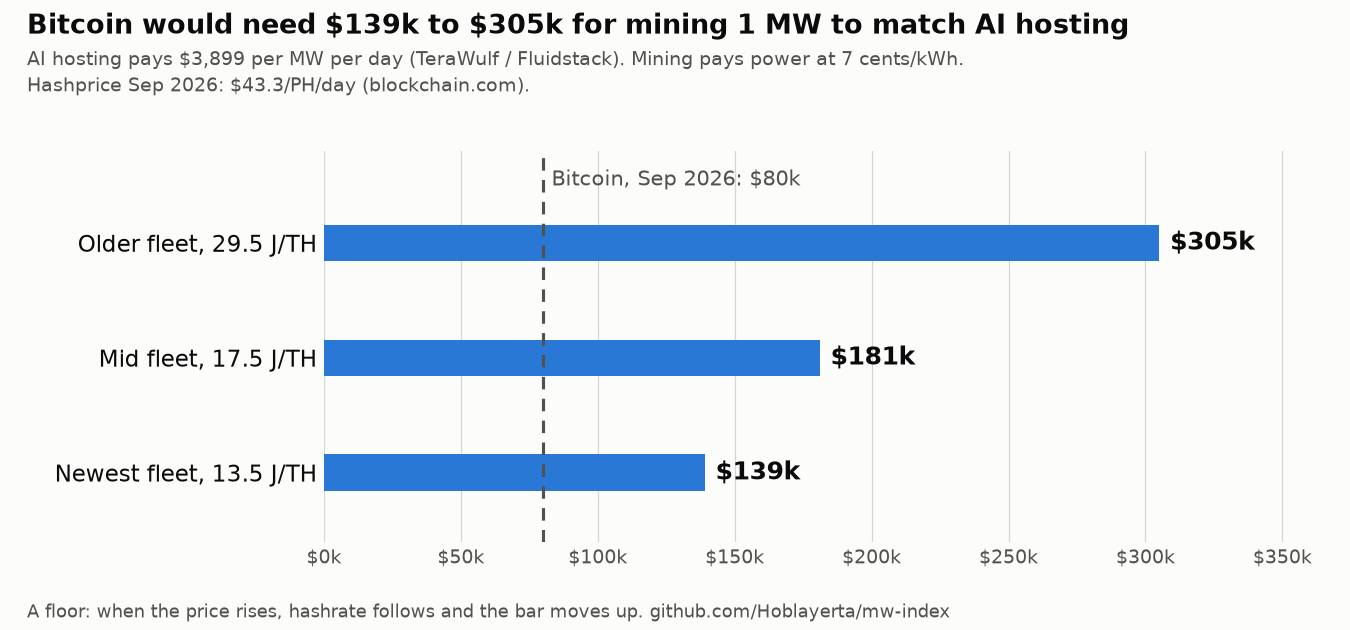
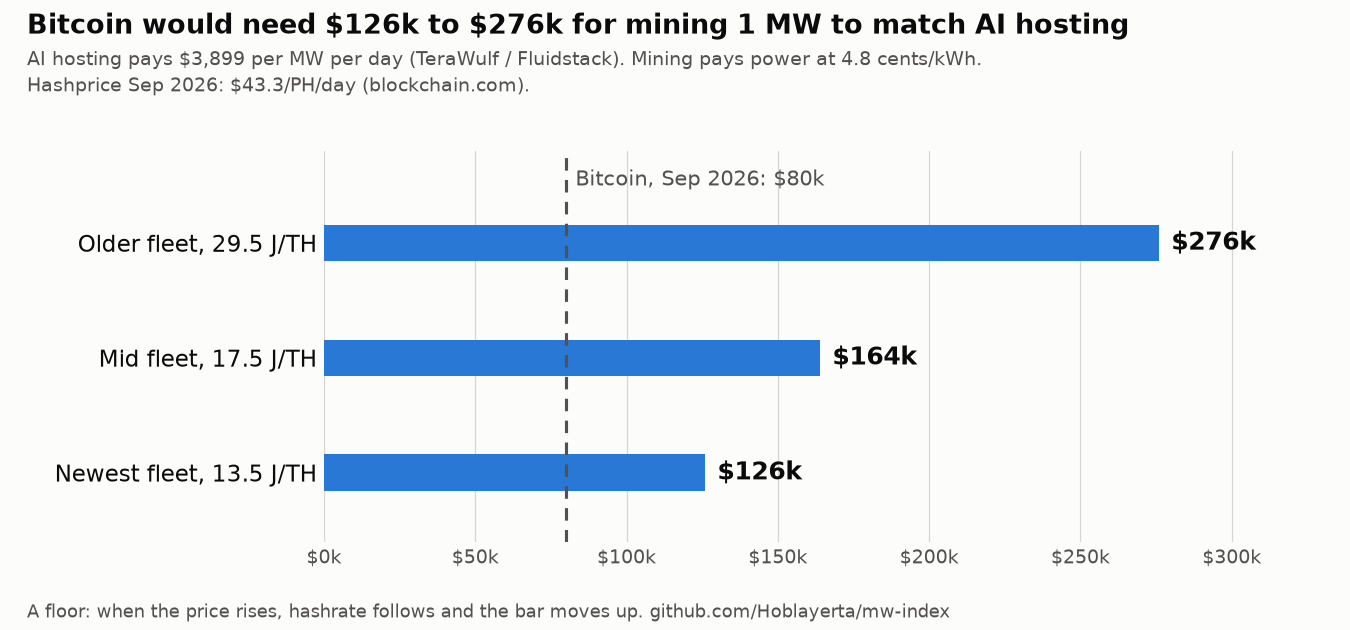
README: lead with the thesis and this sprint's finding, offer a free site study, show the study, block space section, one power price throughout
- Thesis: mined bitcoin as past energy, inference tokens as future energy, with sources
- Sprint finding first: leased vs unleased MW and who pays for the build
- Breakeven chart now at 4.8 cents, the model's power price (was 7)
- Owned-GPU payback marked as before depreciation, staff and financing
- Example one-page study shown inline; last-updated date and not-advice note

diff --git a/rentabilidad-diaria-ml/empate_btc.py b/rentabilidad-diaria-ml/empate_btc.py
@@ -8,7 +8,7 @@ needed BTC = BTC today x needed hashprice / hashprice today. That is a floor:
 when the price rises, hashrate follows and the bar moves up.
 
 "Today" is the last full month of mw_bitcoin_diario.csv. Hosting comes from
-../out/tabla_mw.csv (TeraWulf / Fluidstack rate). Power at 7 cents, as in the dataset.
+../out/tabla_mw.csv (TeraWulf / Fluidstack rate). Power at 4.8 cents, the model's default (Luxor); the daily dataset itself uses 7.
 
 Writes out/empate_btc.png and out/empate_btc.csv.
 """
@@ -20,7 +20,7 @@ import pandas as pd
 AQUI = Path(__file__).resolve().parent
 plt.rcParams["text.parse_math"] = False  # los "$" son dólares, no fórmulas
 MESES = ["Jan", "Feb", "Mar", "Apr", "May", "Jun", "Jul", "Aug", "Sep", "Oct", "Nov", "Dec"]
-LUZ_USD_KWH = 0.07
+LUZ_USD_KWH = 0.048  # la misma luz del modelo (Luxor, jul 2026); el dataset diario usa 0.07
 FLOTAS = [("Older fleet, 29.5 J/TH", 29.5), ("Mid fleet, 17.5 J/TH", 17.5), ("Newest fleet, 13.5 J/TH", 13.5)]
 
 # colores: un solo tono (slot 1 de la paleta de referencia), tinta y superficie claras
@@ -68,7 +68,7 @@ def main():
     lo, hi = full.btc_necesario_usd.min() / 1000, full.btc_necesario_usd.max() / 1000
     fig.suptitle(f"Bitcoin would need ${lo:,.0f}k to ${hi:,.0f}k for mining 1 MW to match AI hosting",
                  x=0.02, ha="left", fontsize=13, fontweight="bold", color=TINTA)
-    fig.text(0.02, 0.855, f"AI hosting pays ${hosting:,.0f} per MW per day (TeraWulf / Fluidstack). Mining pays power at {LUZ_USD_KWH*100:.0f} cents/kWh.\n"
+    fig.text(0.02, 0.855, f"AI hosting pays ${hosting:,.0f} per MW per day (TeraWulf / Fluidstack). Mining pays power at {LUZ_USD_KWH*100:.1f} cents/kWh.\n"
              f"Hashprice {mes_txt}: ${hp:.1f}/PH/day (blockchain.com).", fontsize=9, color=TINTA_2, linespacing=1.4)
     fig.text(0.02, 0.02, "A floor: when the price rises, hashrate follows and the bar moves up. github.com/Hoblayerta/mw-index",
              fontsize=8.5, color=TINTA_2)

diff --git a/README.md b/README.md
@@ -1,8 +1,40 @@
 # MW index
 
-Open research on the economics of energy and compute: what a megawatt earns mining Bitcoin vs hosting AI, what each path costs to build and run, and what it takes to finance the switch. Updated every week, every number linked to its source.
+Open research on the economics of energy and compute: what a megawatt earns mining Bitcoin vs hosting AI, what each path costs to build and run, and what it takes to finance the switch. Built in public, every number linked to its source.
 
-For bitcoin miners of 5 to 50 MW deciding whether to move power to AI, the people who finance them, and anyone who wants to follow where energy, Bitcoin and AI compute meet.
+*Last updated 9 Nov 2026. Research notes, not investment advice.*
+
+**Run 5 to 50 MW?** Send me your MW and your power price and I'll send back a study of your site, free. [Book 20 minutes](https://calendly.com/hoblayerta) or [open an issue](https://github.com/Hoblayerta/mw-index/issues). I'll ask whether your site can join the public index; if not, your numbers stay with you.
+
+## The thesis
+
+Energy is the good underneath all of this, and a megawatt can now be turned into two very different things.
+
+**Mined bitcoin is past energy.** Each coin is proof that work was spent, and that cost can't be faked. Nick Szabo called this [unforgeable costliness](https://nakamotoinstitute.org/library/shelling-out/) in 2002. **An inference token is future energy**: compute you will consume. Both are priced by joules and physics. Money backed by debt is priced by promises, and I think those keep growing until they break.
+
+Three things are moving at once, and I don't see many people measuring them together:
+
+- **AI gets cheaper to produce every year.** The price to reach the same model performance has fallen 9x to 900x a year depending on the task; at GPT-4's level on PhD-level science questions, 40x a year ([Epoch AI, Mar 2025](https://epoch.ai/data-insights/llm-inference-price-trends)).
+- **Bitcoin's subsidy keeps halving, and fees are not filling the gap.** Fees were 0.67% of miner revenue in the 90 days to 4 Oct 2026 ([Cambridge CCAF](https://www.jbs.cam.ac.uk/2026/paying-for-bitcoins-security-as-the-subsidy-fades/)). Someone will have to pay for block space to keep the network secure, and I think it could be worth a lot.
+- **A megawatt can be sold three ways:** as hashes, as AI hosting, or held as bitcoin. Which one wins changes month to month, and the people who own the power decide.
+
+This is a thesis, not a finding. Each sprint tests one piece of it with the people it touches, and the build log below shows what holds up. The hypothesis changes as we learn; the questions stay.
+
+## This sprint: the money follows the signed tenant
+
+The question for 5 to 50 MW miners right now: if AI pays more than mining, why isn't every small site switching? What we found is that the gap is the tenant contract, not the money.
+
+- In one Virginia deal, leased data center capacity sold for about $27M per MW. Energized mining capacity with no tenant trades, in some cases, under $3M per MW ([CoinShares, Sep 2026](https://coinshares.com/insights/research-data/bitcoin-mining-report-q2-2026/)). The difference is the contract.
+- Every source of equity we found arrives once a tenant has signed or is close to signing. Sometimes the tenant pays for the whole build.
+
+| Who pays for the build (one public deal each) | Owner's cash per MW | Owner nets per MW per month |
+| --- | --- | --- |
+| Owner builds with an 80% loan | $1.76M to $2.41M | $21,211 to −$25,872 |
+| Tenant pays the build, triple net lease ([Empery](https://www.sec.gov/Archives/edgar/data/0001829794/000168316826007266/empery_defa14a.htm)) | none | $14,826 |
+| Joint venture with the tenant, owner 50.1% ([TeraWulf Abernathy](https://www.sec.gov/Archives/edgar/data/1083301/000110465925102858/tm2529509d1_8k.htm)) | $0.10M to $0.87M | $30,215 |
+| Preferred equity after a signed lease ([Macquarie in Applied Digital](https://www.sec.gov/Archives/edgar/data/1144879/000149315225002040/form8-k.htm)) | $0.03M to $0.68M | $2,822 to −$44,261 |
+
+Per MW of grid power moved to AI hosting, from the [site study](estudio-de-sitio/). All four come from large sites with a signed or near-signed tenant. We have not found one offered to a 5 to 50 MW site yet.
 
 ## This week's number: when would mining beat AI again?
 
@@ -10,53 +42,56 @@ For bitcoin miners of 5 to 50 MW deciding whether to move power to AI, the peopl
 
 | Fleet | Bitcoin needed to match AI hosting | If hosting paid half |
 | --- | --- | --- |
-| Older, 29.5 J/TH | $305k | $198k |
-| Mid, 17.5 J/TH | $181k | $118k |
-| Newest, 13.5 J/TH | $139k | $91k |
+| Older, 29.5 J/TH | $276k | $169k |
+| Mid, 17.5 J/TH | $164k | $100k |
+| Newest, 13.5 J/TH | $126k | $77k |
 
-Bitcoin averaged $80k in Sep 2026. With power at 7 cents, mining 1 MW has to earn the hosting rate ($3,899 a day) plus its own power bill, which takes Bitcoin at 1.7 to 3.8 times its September price. It is a floor: when the price rises, hashrate follows. Script: [`rentabilidad-diaria-ml/empate_btc.py`](rentabilidad-diaria-ml/empate_btc.py).
+Bitcoin averaged $80k in Sep 2026. Mining 1 MW has to earn the hosting rate ($3,899 a day) plus its own power bill at 4.8 cents, which takes Bitcoin at 1.6 to 3.5 times its September price. It is a floor: when the price rises, hashrate follows. Hashprice is blockchain.com's daily figure ($43.3 in Sep 2026), a little above Luxor's. Script: [`rentabilidad-diaria-ml/empate_btc.py`](rentabilidad-diaria-ml/empate_btc.py).
 
 ## What one MW costs and earns, by path
 
-Per MW of grid power, Sep 2026, power at $48/MWh ([Luxor](data/parametros.md)), PUE 1.3. From [`mw_model.py`](mw_model.py) and the [site study](estudio-de-sitio/).
+Per MW of grid power, Sep 2026, power at 4.8 cents ($48/MWh, Luxor), PUE 1.3. From [`mw_model.py`](mw_model.py) and the [site study](estudio-de-sitio/).
 
 | Path | Build cost per MW | Running cost per MW per day | Revenue per MW per day | Revenue per MWh used | Simple payback |
 | --- | --- | --- | --- | --- | --- |
-| Mine, older fleet (29.5 J/TH) | ~$0.85M for a new mine, machines aside ([CoinShares](data/parametros.md)) | $1,152 of power | $1,333 ($181 after power) | $56 | n/a: no public ASIC price per TH |
+| Mine, older fleet (29.5 J/TH) | ~$0.85M for a new mine, machines aside (CoinShares) | $1,152 of power | $1,333 ($181 after power) | $56 | n/a: no public ASIC price per TH |
 | Mine, mid fleet (17.5 J/TH) | same | $1,152 of power | $2,247 ($1,095 after power) | $94 | n/a |
 | Mine, newest fleet (13.5 J/TH) | same | $1,152 of power | $2,913 ($1,761 after power) | $121 | n/a |
-| Host AI for a tenant | $6.2M to $8.5M ($8M to $11M per MW of IT: [TeraWulf](https://www.sec.gov/Archives/edgar/data/1083301/000110465925078084/tm2523008d2_ex99-1.htm), [Cipher](https://www.sec.gov/Archives/edgar/data/1819989/000095010325012168/dp234624_ex9901.htm)) | Power paid by the tenant; site costs $585 to $1,170 (15% to 30% of rent) | $3,899 (TeraWulf / Fluidstack rate) | $162, plus the power the tenant pays | 5.1 to 8.5 years |
-| Rent out your own H100s | ~$20M (CoinShares) | $1,152 of power, staff not modeled | $27,256 ($26,104 after power), Oct 2026 prices at 71% use | $1,136 | 2.1 years, before the GPUs lose value |
+| Host AI for a tenant | $6.2M to $8.5M ($8M to $11M per MW of IT: [TeraWulf](https://www.sec.gov/Archives/edgar/data/1083301/000110465925078084/tm2523008d2_ex99-1.htm), [Cipher](https://www.sec.gov/Archives/edgar/data/1819989/000095010325012168/dp234624_ex9901.htm)) | Power paid by the tenant; site costs $585 to $1,170 (15% to 30% of rent) | $3,899 (TeraWulf / Fluidstack rate) | $162, plus the power the tenant pays | 5.1 to 8.5 years, before financing |
+| Rent out your own H100s | ~$20M (CoinShares) | $1,152 of power | $27,256 ($26,104 after power), Oct 2026 prices at 71% use | $1,136 | 2.1 years before depreciation, staff and financing. GPUs lose value fast, so treat this as a ceiling |
 
-Site costs come from the NOI margins TeraWulf and Cipher report for their hosting leases (85%) and TeraWulf's Abernathy average over the lease (~70%). Paybacks have no financing; the next section adds it.
+Site costs come from the NOI margins TeraWulf and Cipher report for their hosting leases (85%) and TeraWulf's Abernathy average over the lease (~70%).
 
 **In one line:** a MWh that costs $48 brings in $94 mining with a mid fleet and $162 hosting AI, but the hosting building costs 7 to 10 times a mine per MW.
 
 ## What it takes to finance the switch
 
-From the [site study](estudio-de-sitio/) with a fictional 20 MW site (`out/fictional-site.pdf`), per MW moved to AI hosting.
+Per MW moved to AI hosting, for a fictional 20 MW site at $50/MWh. This is what an operator gets:
 
-- **Own cash before the first rent: $1.76M to $2.41M per MW.** That is 20% of the build, a 3-month debt reserve, interest during 12 months of construction and the mining income given up. Loan of 80% at 10% over 10 years, the structure [USD.AI](https://usd.ai/blog/usdai-underwriting-and-risk-management) publishes, at what it charged smaller operators ([American Compute, Oct 2026](https://www.amcompute.com/gpu-debt/pricing)).
-- **Lenders want the rent to cover the payment 1.15 times.** On a 5-year loan it covers 0.52 to 0.87 times. On 10 years at 10% it passes only in the favorable case (1.29 times; 0.77 with a costly build and high site costs).
+[![First page of the one-page site study, fictional 20 MW example](estudio-de-sitio/out/fictional-site-1p.png)](estudio-de-sitio/out/fictional-site-1p.pdf)
+
+[One-page version (PDF)](estudio-de-sitio/out/fictional-site-1p.pdf) · [Full study (PDF)](estudio-de-sitio/out/fictional-site.pdf)
+
+- **Own cash before the first rent: $1.76M to $2.41M per MW.** That covers 20% of the build, a 3-month debt reserve, interest during 12 months of construction and the mining income given up. The loan is 80% at 10% over 10 years: the structure [USD.AI](https://usd.ai/blog/usdai-underwriting-and-risk-management) publishes, at the rate it charged smaller operators ([American Compute, Oct 2026](https://www.amcompute.com/gpu-debt/pricing)).
+- **Lenders want the rent to cover the payment 1.15 times.** On a 5-year loan it covers 0.52 to 0.87 times. On 10 years at 10% it passes only in the favorable case: 1.29 times, and 0.77 with a costly build and high site costs.
 - **Any one of these makes it pass in the costly case:** a signed rent of $2.1M or more per MW per year (the benchmark gives $1.4M), a build at $7.4M or less per MW of IT (filings show $8M to $11M), or the owner putting in 46% instead of 20%. Power price and fleet do not move the debt. Rent and build cost do.
 - **About 12 months from signing to first rent**, then the tenant ramps up over months ([Cipher](https://www.sec.gov/Archives/edgar/data/1819989/000181998926000007/cipherdigital_businessup.htm), [TeraWulf](https://www.sec.gov/Archives/edgar/data/0001083301/000108330126000162/a_wulfearningsreleaseq22026.htm)).
 
-Who pays for the build changes everything:
-
-| Structure (one public deal each) | Owner's cash per MW | Owner nets per MW per month |
-| --- | --- | --- |
-| Owner builds with an 80% loan | $1.76M to $2.41M | $21,211 to −$25,872 |
-| Tenant pays the build, triple net lease ([Empery](https://www.sec.gov/Archives/edgar/data/0001829794/000168316826007266/empery_defa14a.htm)) | none | $14,826 |
-| Joint venture with the tenant, owner 50.1% ([TeraWulf Abernathy](https://www.sec.gov/Archives/edgar/data/1083301/000110465925102858/tm2529509d1_8k.htm)) | $0.10M to $0.87M | $30,215 |
-| Preferred equity after a signed lease ([Macquarie in Applied Digital](https://www.sec.gov/Archives/edgar/data/1144879/000149315225002040/form8-k.htm)) | $0.03M to $0.68M | $2,822 to −$44,261 |
-
-All four come from large sites with a signed or near-signed tenant. We have not found one offered to a 5 to 50 MW site.
-
 ## What an AI tenant asks of a mining site
 
-- **Power that stays on**, usually paid by the tenant ("Power 100% passed-through to tenant", [TeraWulf](https://www.sec.gov/Archives/edgar/data/0001083301/000110465925102858/tm2529509d1_ex99-3.htm)).
+- **Power that stays on**, usually paid by the tenant: "Power 100% passed-through to tenant" ([TeraWulf](https://www.sec.gov/Archives/edgar/data/0001083301/000110465925102858/tm2529509d1_ex99-3.htm)).
 - **120 to 132 kW per rack with liquid cooling to the chip**, for one NVIDIA GB200 NVL72 rack ([Supermicro](https://www.supermicro.com/en/products/rack/srs-gb200-nvl72)). Air-cooled mining containers are not built for that.
 - **A Tier III or IV building** if the GPUs are financed ([USD.AI](https://usd.ai/blog/usdai-underwriting-and-risk-management)), plus a colocation agreement, a lien waiver from the site owner and the lender's right to step in.
+
+## Block space: the other half of the thesis
+
+If the subsidy keeps halving, fees have to pay for Bitcoin's security, and block space becomes the product miners sell. Today it barely pays for itself:
+
+- Users paid 76% of the energy behind each vB in Apr 2024 (halving and Runes), and 1.2% in Sep 2026, with a 17.5 J/TH fleet: [`costo-por-byte/`](costo-por-byte/).
+- Runes at launch paid 145% of the energy behind their bytes. By Sep 2026 a rune paid 0.2%: [`costo-por-inscripcion/`](costo-por-inscripcion/).
+- Since 2016, fees averaged 4.5% of miner revenue, and only one day went above 50% (20 Apr 2024, Runes): [`rentabilidad-diaria-ml/`](rentabilidad-diaria-ml/).
+
+This work builds on [Blockspace Value Theory](https://block.space/docs/bvt), from the creator of Degent Club: "A block is a fixed quantity of blockspace, consumed once and never again" ([block.space](https://block.space)). Pricing block space by what it costs to produce, in energy, is the bridge between the two halves of this repo.
 
 ## Start here
 
@@ -76,13 +111,14 @@ Newest first.
 
 - A daily dataset of what 1 MW nets mining since 2016 (3,921 days, three fleets): [`rentabilidad-diaria-ml/`](rentabilidad-diaria-ml/).
 - Logistic regression, linear regression and SVR all lose to the rule "next month looks like this month". What an operator sees on today's bill is the better forecast.
-- With power at 7 cents, a 29.5 J/TH fleet lost money in every 30-day window of 2026 (median −$14,493 per MW per month). It only breaks even under 5.17 cents/kWh. For mining to pay as much as hosting AI, Bitcoin would need $139k to $305k.
+- In that dataset, with power at 7 cents, a 29.5 J/TH fleet lost money in every 30-day window of 2026 (median −$14,493 per MW per month). It only breaks even under 5.17 cents/kWh.
+- At the model's 4.8 cents, mining would pay as much as hosting AI only with Bitcoin at $126k to $276k: the chart above.
 
 ### Week of 2 Nov 2026: the money follows the signed tenant
 
 - Converting a mining site to host AI costs $8M to $11M per MW of critical IT. In Sep 2026 AI hosting paid 3.6 times what a 17.5 J/TH fleet made per MW and 21 times what a 29.5 J/TH fleet made, so the real question is how to pay for the build.
 - The site study now models the financing: own cash per MW, debt coverage, 12 months of construction, the tenant's ramp and four ways to pay for the build: [`estudio-de-sitio/`](estudio-de-sitio/).
-- On the sources we read, equity for the owner's 20% shows up once a tenant has signed, and sometimes the tenant pays for the whole build. That is why a leased MW and an unleased one are priced so differently: about $27M vs, in some cases, under $3M per MW ([CoinShares, Sep 2026](https://coinshares.com/insights/research-data/bitcoin-mining-report-q2-2026/)).
+- On the sources we read, equity for the owner's 20% shows up once a tenant has signed, and sometimes the tenant pays for the whole build.
 
 ### Week of 26 Oct 2026: fees stopped paying for block space
 
@@ -92,17 +128,17 @@ Newest first.
 ### Week of 19 Oct 2026: one MW, three uses
 
 - The model: hosting AI pays about $3,899 per MW per day. A 17.5 J/TH fleet made $583 in Jun 2026 and $1,095 in Sep, and a 29.5 J/TH fleet was at zero or below in 5 of the last 8 months.
-- Energy per vB of block space vs the fee paid for it: users covered 76% of the energy in Apr 2024 (halving and Runes) and 1.2% in Sep 2026, with a 17.5 J/TH fleet: [`costo-por-byte/`](costo-por-byte/).
+- Energy per vB of block space vs the fee paid for it: users covered 76% of the energy in Apr 2024 and 1.2% in Sep 2026, with a 17.5 J/TH fleet: [`costo-por-byte/`](costo-por-byte/).
 
 ## Who is behind this
 
-José Román Andrade, founder of Offtake, which works on how 5 to 50 MW bitcoin miners finance moving power to AI. Román studied Renewable Energy Engineering, specializing in power electronics, at the Universidad Michoacana de San Nicolás de Hidalgo in Morelia, Mexico. The daily dataset and the machine learning analysis in [`rentabilidad-diaria-ml/`](rentabilidad-diaria-ml/) were his final project for the university's machine learning seminar (Nov 2026). Before Offtake he was a tech lead at an edtech startup and built a wallet on the Stellar mainnet with friends.
+José Román Andrade, founder of Offtake, which works on how 5 to 50 MW bitcoin miners finance moving power to AI. Román studied Renewable Energy Engineering, specializing in power electronics, at the Universidad Michoacana de San Nicolás de Hidalgo in Morelia, Mexico, where thermodynamics was a big part of the degree. The daily dataset and the machine learning analysis in [`rentabilidad-diaria-ml/`](rentabilidad-diaria-ml/) were his final project for the university's machine learning seminar (Nov 2026). Before Offtake he was a tech lead at an edtech startup and built a wallet on the Stellar mainnet with friends.
 
 - X: [@0xscarf](https://x.com/0xscarf)
 - LinkedIn: [joseromanandrade](https://www.linkedin.com/in/joseromanandrade/)
-- 20 minutes to talk about your site: [calendly.com/hoblayerta](https://calendly.com/hoblayerta)
+- 20 minutes to talk about your site or the thesis: [calendly.com/hoblayerta](https://calendly.com/hoblayerta)
 
-Run a site and want to see your own MW in the model? Book a call or open an issue. Watch or star the repo to get each week's update.
+If you think in both joules and sats, I'd like to hear from you. Watch or star the repo to get each week's update.
 
 ## How the model works
 
